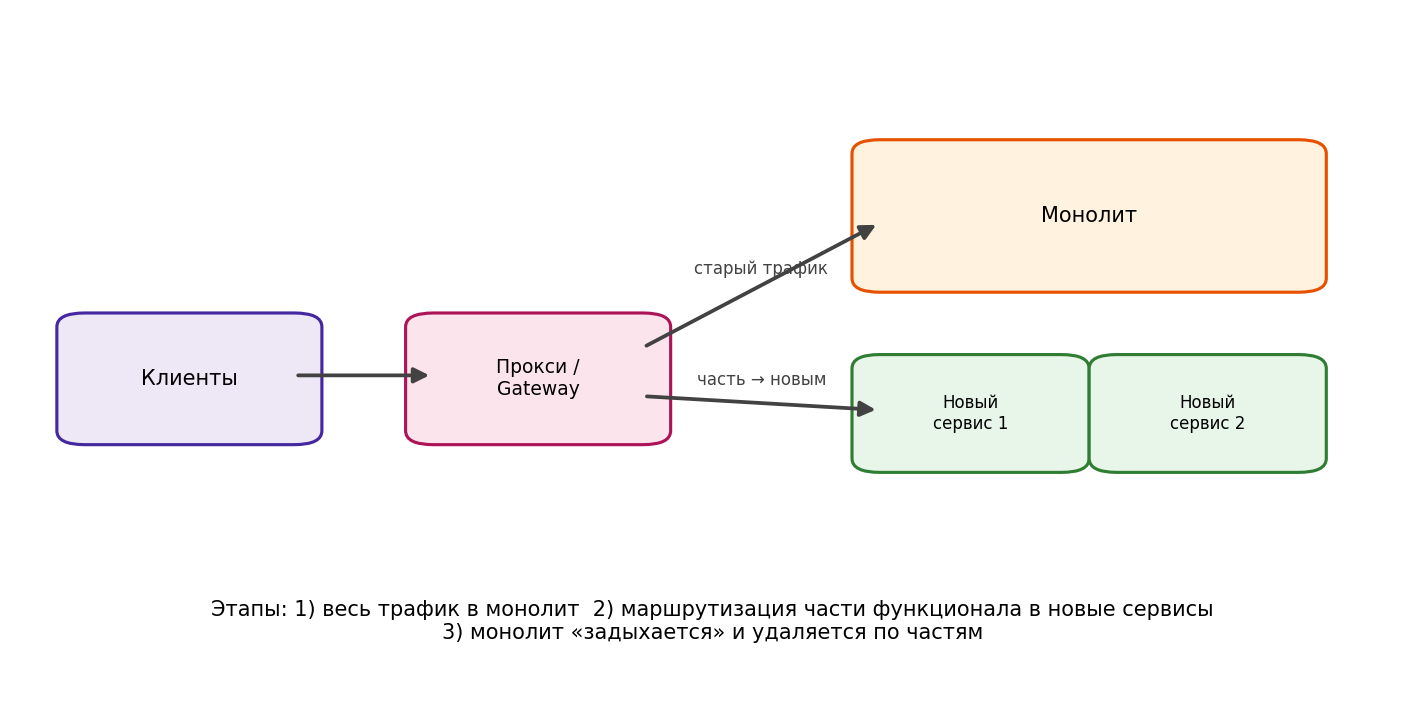
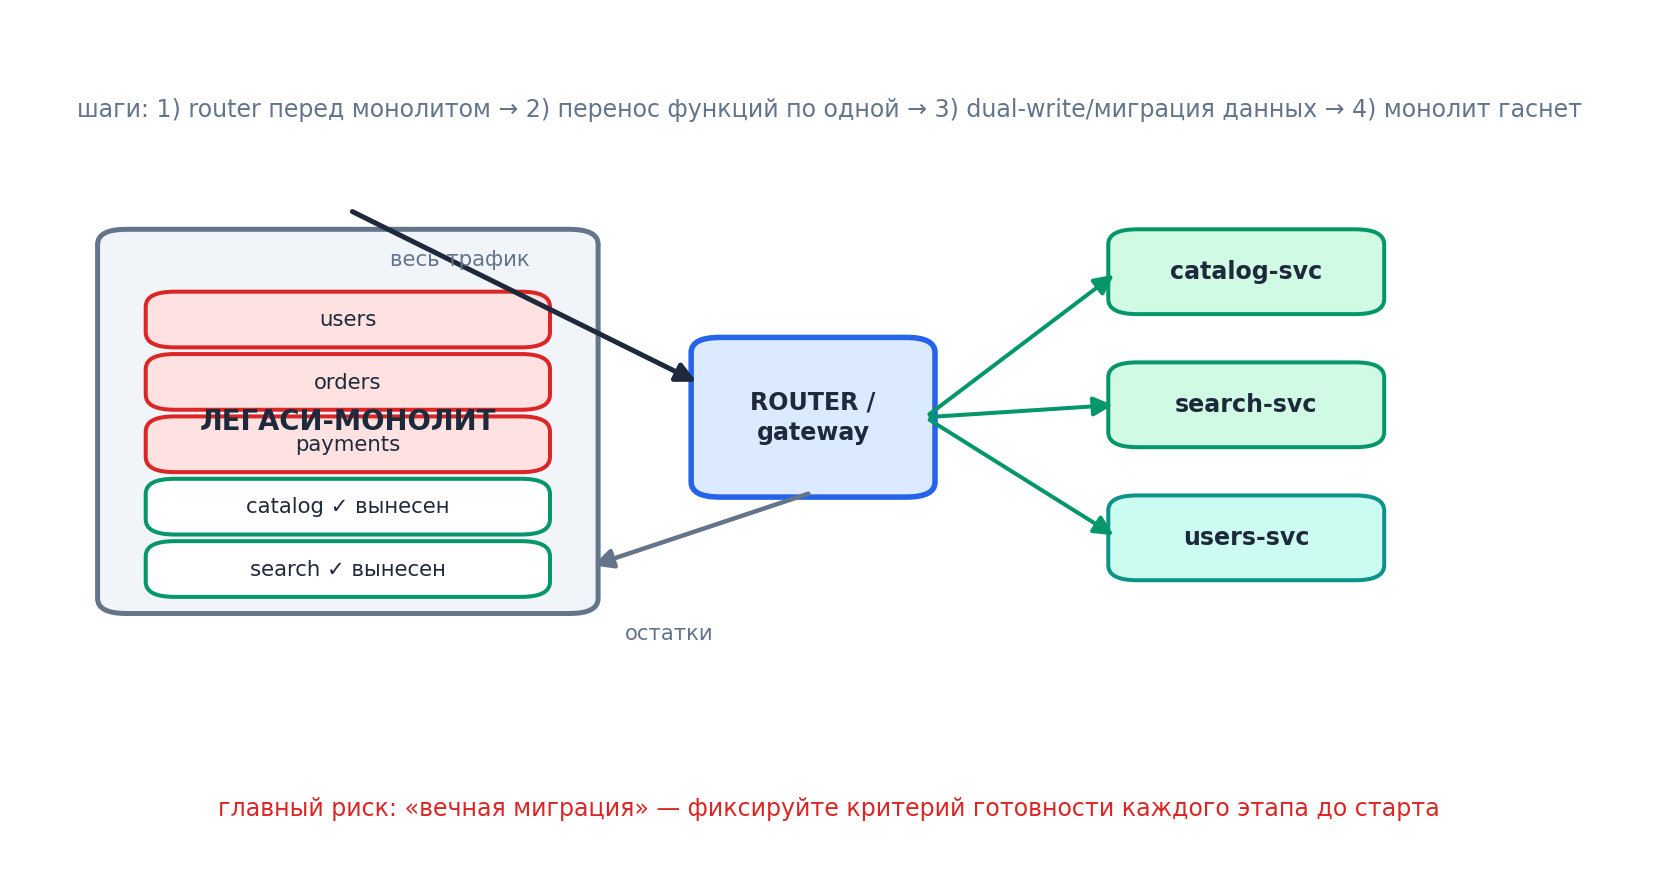
Redesign diagrams: modern flat palette, cleaner layout

diff --git a/diagrams2.py b/diagrams2.py
@@ -1,0 +1,371 @@
+import matplotlib
+matplotlib.use("Agg")
+import matplotlib.pyplot as plt
+from matplotlib.patches import FancyBboxPatch, FancyArrowPatch, Circle
+
+OUT = "/workspace/course/images"
+
+plt.rcParams["font.family"] = "DejaVu Sans"
+
+# ---- Modern flat palette ----
+BG      = "#ffffff"
+INK     = "#1e293b"   # main text
+MUTED   = "#64748b"   # secondary text
+LINE    = "#94a3b8"   # neutral arrows
+
+BLUE    = "#2563eb"; BLUE_F   = "#dbeafe"; BLUE_S   = "#bfdbfe"
+GREEN   = "#059669"; GREEN_F  = "#d1fae5"; GREEN_S  = "#a7f3d0"
+ORANGE  = "#ea580c"; ORANGE_F = "#ffedd5"; ORANGE_S = "#fed7aa"
+RED     = "#dc2626"; RED_F    = "#fee2e2"; RED_S    = "#fecaca"
+PURPLE  = "#7c3aed"; PURPLE_F = "#ede9fe"; PURPLE_S = "#ddd6fe"
+TEAL    = "#0d9488"; TEAL_F   = "#ccfbf1"; TEAL_S   = "#99f6e4"
+AMBER   = "#d97706"; AMBER_F  = "#fef3c7"; AMBER_S  = "#fde68a"
+GRAY_F  = "#f1f5f9"; GRAY_S   = "#e2e8f0"
+
+
+def box(ax, x, y, w, h, text="", fc="#dbeafe", ec="#2563eb", fs=10.5, lw=1.6,
+        bold=False, r=0.018, tc=None, va="center"):
+    p = FancyBboxPatch((x, y), w, h,
+                       boxstyle=f"round,pad=0.006,rounding_size={r}",
+                       fc=fc, ec=ec, lw=lw, mutation_scale=1)
+    ax.add_patch(p)
+    if text:
+        ax.text(x + w/2, y + h/2, text, ha="center", va=va, fontsize=fs,
+                color=tc or INK, weight="bold" if bold else "normal",
+                linespacing=1.35)
+    return p
+
+
+def cyl(ax, cx, cy, w, h, label="", fc=GREEN_F, ec=GREEN, fs=9):
+    """Small database cylinder."""
+    from matplotlib.patches import Ellipse
+    e1 = Ellipse((cx, cy + h/2), w, w*0.32, fc=fc, ec=ec, lw=1.6)
+    e2 = Ellipse((cx, cy - h/2), w, w*0.32, fc=fc, ec=ec, lw=1.6)
+    rect = plt.Rectangle((cx - w/2, cy - h/2), w, h, fc=fc, ec="none")
+    ax.add_patch(rect); ax.add_patch(e2); ax.add_patch(e1)
+    ax.plot([cx - w/2, cx - w/2], [cy - h/2, cy + h/2], color=ec, lw=1.6)
+    ax.plot([cx + w/2, cx + w/2], [cy - h/2, cy + h/2], color=ec, lw=1.6)
+    if label:
+        ax.text(cx, cy - h/2 - 0.035, label, ha="center", va="top",
+                fontsize=fs, color=MUTED)
+
+
+def arrow(ax, x1, y1, x2, y2, color=LINE, style="-|>", ls="-", lw=1.8, ms=16):
+    a = FancyArrowPatch((x1, y1), (x2, y2), arrowstyle=style,
+                        mutation_scale=ms, color=color, lw=lw, linestyle=ls,
+                        shrinkA=2, shrinkB=2)
+    ax.add_patch(a)
+    return a
+
+
+def lbl(ax, x, y, text, fs=9, color=MUTED, ha="center", style="normal", weight="normal"):
+    ax.text(x, y, text, fontsize=fs, color=color, ha=ha, va="center",
+            style=style, weight=weight)
+
+
+def title(ax, x, y, text, fs=13, color=INK):
+    ax.text(x, y, text, fontsize=fs, color=color, ha="center", va="center",
+            weight="bold")
+
+
+def new_ax(figsize=(11, 6)):
+    fig, ax = plt.subplots(figsize=figsize)
+    ax.set_xlim(0, 1); ax.set_ylim(0, 1)
+    ax.axis("off")
+    fig.patch.set_facecolor(BG)
+    return fig, ax
+
+
+def save(fig, name):
+    fig.savefig(f"{OUT}/{name}", dpi=180, bbox_inches="tight",
+                facecolor=BG, pad_inches=0.15)
+    plt.close(fig)
+
+
+# ============================================================
+# 1. Monolith vs Microservices
+# ============================================================
+fig, ax = new_ax((12, 6.2))
+
+# Left: monolith
+title(ax, 0.24, 0.94, "МОНОЛИТ", 14)
+box(ax, 0.06, 0.16, 0.36, 0.72, "", fc="#fffbeb", ec=AMBER, lw=2)
+mods = [("Presentation / UI", 0.70), ("Business logic", 0.535), ("Data access (ORM)", 0.37)]
+for t, y in mods:
+    box(ax, 0.10, y, 0.28, 0.115, t, fc=AMBER_F, ec=AMBER, fs=10)
+cyl(ax, 0.24, 0.245, 0.16, 0.06, "единая БД", fc=RED_F, ec=RED, fs=9)
+lbl(ax, 0.24, 0.075, "один деплой • один сбой роняет всё\nкоманда из 50 человек в одном коде", 9.5)
+
+# Right: microservices
+title(ax, 0.72, 0.94, "МИКРОСЕРВИСЫ", 14)
+svcs = [("users", BLUE, BLUE_F), ("orders", GREEN, GREEN_F),
+        ("payments", PURPLE, PURPLE_F), ("catalog", ORANGE, ORANGE_F)]
+pos = [(0.52, 0.62), (0.70, 0.62), (0.52, 0.34), (0.70, 0.34)]
+for (name, ec, fc), (x, y) in zip(svcs, pos):
+    box(ax, x, y, 0.145, 0.16, name, fc=fc, ec=ec, fs=11, bold=True)
+    cyl(ax, x + 0.0725, y - 0.055, 0.09, 0.035, "своя БД", fc=GRAY_F, ec=MUTED, fs=8)
+    arrow(ax, x + 0.0725, y, x + 0.0725, y - 0.032, color=ec, lw=1.4)
+# client on top
+box(ax, 0.585, 0.86, 0.215, 0.075, "клиент", fc=GRAY_F, ec=MUTED, fs=10)
+for x, y in pos:
+    arrow(ax, 0.6925, 0.86, x + 0.0725, y + 0.16, color=LINE, lw=1.2, ls=(0,(3,2)))
+lbl(ax, 0.72, 0.075, "независимые деплои • изоляция сбоев\nмаленькие команды вокруг сервисов", 9.5)
+
+arrow(ax, 0.445, 0.52, 0.485, 0.52, color=INK, lw=2.5, ms=22)
+save(fig, "01_monolith_vs_microservices.png")
+
+# ============================================================
+# 2. Sync vs Async communication
+# ============================================================
+fig, ax = new_ax((12, 6))
+
+title(ax, 0.25, 0.93, "СИНХРОННЫЙ REST/gRPC", 12)
+box(ax, 0.06, 0.60, 0.13, 0.11, "Order", fc=GREEN_F, ec=GREEN, bold=True)
+box(ax, 0.24, 0.60, 0.13, 0.11, "Payment", fc=PURPLE_F, ec=PURPLE, bold=True)
+box(ax, 0.06, 0.34, 0.13, 0.11, "Inventory", fc=BLUE_F, ec=BLUE, bold=True)
+arrow(ax, 0.19, 0.675, 0.24, 0.675, color=INK)
+lbl(ax, 0.215, 0.72, "POST /pay", 8.5)
+arrow(ax, 0.125, 0.60, 0.125, 0.45, color=INK)
+lbl(ax, 0.155, 0.53, "GET stock", 8.5, ha="left")
+lbl(ax, 0.185, 0.20, "отвечает только когда все ответы получены\nзадержка = сумма задержек цепочки", 9)
+
+title(ax, 0.74, 0.93, "АСИНХРОННЫЙ БРОКЕР СООБЩЕНИЙ", 12)
+box(ax, 0.52, 0.62, 0.12, 0.11, "Order\n(producer)", fc=GREEN_F, ec=GREEN, fs=9, bold=True)
+box(ax, 0.68, 0.55, 0.17, 0.25, "брокер\n(Kafka / RabbitMQ)", fc=AMBER_F, ec=AMBER, fs=9.5, bold=True)
+box(ax, 0.90, 0.70, 0.085, 0.09, "Payment", fc=PURPLE_F, ec=PURPLE, fs=8)
+box(ax, 0.90, 0.57, 0.085, 0.09, "Shipping", fc=BLUE_F, ec=BLUE, fs=8)
+box(ax, 0.90, 0.44, 0.085, 0.09, "Email", fc=ORANGE_F, ec=ORANGE, fs=8)
+arrow(ax, 0.64, 0.675, 0.68, 0.675, color=INK)
+lbl(ax, 0.66, 0.715, "event:", 8); lbl(ax, 0.66, 0.645, "order.created", 7.5, color=GREEN)
+for yy in (0.745, 0.615, 0.485):
+    arrow(ax, 0.85, 0.675 if yy==0.745 else (0.675 if yy==0.615 else 0.675), 0.90, yy, color=LINE, lw=1.3)
+lbl(ax, 0.735, 0.20, "producer не ждёт consumers\nкаждый подписчик читает сам, темп свой", 9)
+
+# latency comparison bars
+ax.text(0.06, 0.155, "СРАВНЕНИЕ ЗАДЕРЖКИ", fontsize=9.5, color=MUTED, weight="bold", ha="left")
+# sync: sequential chain of colored segments
+xb = 0.06
+for lab, d, c in [("order", 0.05, GREEN), ("payment", 0.13, PURPLE), ("stock", 0.08, BLUE)]:
+    ax.add_patch(FancyBboxPatch((xb, 0.10), d, 0.028, boxstyle="round,pad=0.002",
+                                fc=c, ec=c, alpha=0.9))
+    xb += d + 0.004
+lbl(ax, 0.36, 0.114, "= 320 мс до ответа клиенту", 8.5, color=INK, ha="left")
+# async: short publish + parallel background
+ax.add_patch(FancyBboxPatch((0.06, 0.045), 0.03, 0.028, boxstyle="round,pad=0.002",
+                            fc=GREEN, ec=GREEN, alpha=0.9))
+for i, (d, c) in enumerate([(0.10, PURPLE), (0.07, BLUE)]):
+    ax.add_patch(FancyBboxPatch((0.098, 0.055 - i*0.012), d, 0.009,
+                                boxstyle="round,pad=0.001", fc=c, ec=c, alpha=0.75))
+lbl(ax, 0.215, 0.058, "= 60 мс до ответа, остальное — в фоне", 8.5, color=INK, ha="left")
+save(fig, "02_sync_async_communication.png")
+
+# ============================================================
+# 3. API Gateway
+# ============================================================
+fig, ax = new_ax((11, 6.5))
+box(ax, 0.05, 0.78, 0.13, 0.09, "Web", fc=GRAY_F, ec=MUTED, bold=True)
+box(ax, 0.05, 0.66, 0.13, 0.09, "Mobile", fc=GRAY_F, ec=MUTED, bold=True)
+box(ax, 0.05, 0.54, 0.13, 0.09, "Партнёры", fc=GRAY_F, ec=MUTED, bold=True)
+
+gw_x, gw_y, gw_w, gw_h = 0.30, 0.40, 0.26, 0.48
+box(ax, gw_x, gw_y, gw_w, gw_h, "", fc=BLUE_F, ec=BLUE, lw=2.2)
+title(ax, gw_x + gw_w/2, 0.855, "API GATEWAY", 12, BLUE)
+steps = ["аутентификация (JWT)", "rate limiting", "роутинг /path → сервис", "ретраи, таймауты", "логирование запросов"]
+for i, s in enumerate(steps):
+    box(ax, gw_x+0.025, 0.755 - i*0.075, gw_w-0.05, 0.055, s, fc="white", ec=BLUE, fs=9)
+
+for yy in (0.825, 0.705, 0.585):
+    arrow(ax, 0.18, yy, gw_x, (yy+0.62)/2 if yy!=0.585 else 0.52, color=LINE, lw=1.5)
+
+backends = [("users", GREEN, GREEN_F, 0.78), ("orders", PURPLE, PURPLE_F, 0.62),
+            ("payments", ORANGE, ORANGE_S, 0.46), ("catalog", TEAL, TEAL_F, 0.30)]
+for name, ec, fc, y in backends:
+    box(ax, 0.72, y, 0.16, 0.09, name, fc=fc, ec=ec, bold=True)
+    arrow(ax, gw_x+gw_w, 0.64, 0.72, y+0.045, color=ec, lw=1.6)
+
+box(ax, 0.72, 0.10, 0.16, 0.09, "лицензионный /\nвнутренний API", fc=GRAY_F, ec=MUTED, fs=8.5)
+lbl(ax, 0.43, 0.16, "single entry point:\nклиенты не знают топологию внутри", 9.5, ha="left")
+lbl(ax, 0.30, 0.05, "минус: gateway может стать «умным» монолитом — держите в нём только сетевые функции", 9, color=RED)
+save(fig, "03_api_gateway.png")
+
+# ============================================================
+# 4. Service Discovery
+# ============================================================
+fig, ax = new_ax((11, 6.2))
+box(ax, 0.38, 0.74, 0.24, 0.14, "", fc=PURPLE_F, ec=PURPLE, lw=2)
+title(ax, 0.50, 0.845, "РЕЕСТР (registry)", 11, PURPLE)
+reg = ["users-svc → 10.0.1.4:8080", "users-svc → 10.0.2.9:8080", "orders-svc → 10.0.3.2:8080"]
+for i, r in enumerate(reg):
+    lbl(ax, 0.50, 0.80 - i*0.028, r, 8.5, color=INK)
+
+svc_data = [("users A", 0.06, 0.45, GREEN), ("users B", 0.06, 0.28, GREEN),
+            ("orders C", 0.86, 0.45, BLUE), ("caller", 0.44, 0.10, ORANGE)]
+for name, x, y, c in svc_data:
+    box(ax, x, y, 0.12, 0.09, name, fc="white", ec=c, lw=2, bold=True)
+    arrow(ax, x+0.06, y+0.09, 0.50 if x < 0.3 else (0.44 if x>0.5 else 0.50), 0.74,
+          color=c, ls=(0,(4,2)), lw=1.3)
+lbl(ax, 0.10, 0.56, "heartbeat каждые 5 с", 8.5, color=MUTED)
+lbl(ax, 0.90, 0.56, "registration", 8.5, color=MUTED)
+
+arrow(ax, 0.56, 0.145, 0.86, 0.25, color=ORANGE, lw=2)
+lbl(ax, 0.74, 0.22, "lookup + балансировка", 9, color=ORANGE)
+arrow(ax, 0.44, 0.145, 0.18, 0.30, color=INK, lw=2)
+lbl(ax, 0.24, 0.20, "прямой вызов 10.0.1.4:8080", 9)
+
+lbl(ax, 0.50, 0.02, "вышел users B → heartbeat пропал → реестр исключил инстанс → новые запросы идут только на A", 9, color=RED)
+save(fig, "04_service_discovery.png")
+
+# ============================================================
+# 5. Saga orchestration
+# ============================================================
+fig, ax = new_ax((12, 6.2))
+box(ax, 0.38, 0.78, 0.24, 0.12, "SAGA ORCHESTRATOR", fc=AMBER_F, ec=AMBER, bold=True, fs=11)
+steps = [("1. create order", GREEN, 0.05), ("2. reserve stock", BLUE, 0.27),
+         ("3. charge card", PURPLE, 0.49), ("4. ship", ORANGE, 0.71)]
+for name, c, x in steps:
+    box(ax, x, 0.45, 0.19, 0.10, name.split(". ",1)[1], fc="white", ec=c, lw=2, bold=True, fs=10)
+    lbl(ax, x+0.095, 0.575, name.split(".")[0], 9, color=c, weight="bold")
+    arrow(ax, x+0.095, 0.78, x+0.095, 0.55, color=AMBER, lw=1.4)
+    arrow(ax, x+0.095, 0.45, x+0.095, 0.38, color=c, lw=1.4, style="-|>")
+    lbl(ax, x+0.095, 0.345, "ok", 8.5, color=GREEN)
+
+# failure path
+box(ax, 0.49, 0.17, 0.19, 0.09, "ОТКАЗ оплаты", fc=RED_F, ec=RED, bold=True, fs=9.5)
+arrow(ax, 0.585, 0.38, 0.585, 0.26, color=RED, lw=2)
+comp = [("C1: отменить заказ", 0.05), ("C2: вернуть stock", 0.27)]
+for name, x in comp:
+    box(ax, x, 0.17, 0.19, 0.09, name, fc=GRAY_F, ec=RED, fs=8.5)
+    arrow(ax, 0.49, 0.215, x+0.19, 0.215, color=RED, ls=(0,(3,2)), lw=1.3)
+lbl(ax, 0.60, 0.09, "компенсации выполняются в обратном порядке;\nитоговое состояние согласовано eventual consistency", 9, color=MUTED)
+save(fig, "05_saga_orchestration.png")
+
+# ============================================================
+# 6. Circuit breaker states
+# ============================================================
+fig, ax = new_ax((10.5, 6))
+nodes = {"CLOSED": (0.14, 0.55, GREEN, GREEN_F),
+         "OPEN":   (0.55, 0.82, RED, RED_F),
+         "HALF-\nOPEN": (0.55, 0.30, AMBER, AMBER_F)}
+for name, (x, y, c, fc) in nodes.items():
+    box(ax, x, y, 0.20, 0.14, name, fc=fc, ec=c, lw=2.5, bold=True, fs=11)
+
+arrow(ax, 0.34, 0.66, 0.55, 0.84, color=RED, lw=2)
+lbl(ax, 0.40, 0.79, "fail% > порога", 8.5, color=RED)
+arrow(ax, 0.65, 0.82, 0.65, 0.44, color=AMBER, lw=2)
+lbl(ax, 0.70, 0.63, "таймер истёк", 8.5, color=AMBER, ha="left")
+arrow(ax, 0.55, 0.34, 0.24, 0.55, color=GREEN, lw=2)
+lbl(ax, 0.33, 0.40, "тест прошёл", 8.5, color=GREEN)
+arrow(ax, 0.65, 0.30, 0.65, 0.18, color=RED, lw=1.6)
+lbl(ax, 0.70, 0.15, "тест упал → снова OPEN", 8.5, color=RED, ha="left")
+
+box(ax, 0.83, 0.55, 0.15, 0.14, "fallback:\nкэш /\nнейтральное\nзначение", fc=GRAY_F, ec=MUTED, fs=8.5)
+arrow(ax, 0.75, 0.86, 0.90, 0.69, color=MUTED, lw=1.5)
+lbl(ax, 0.85, 0.80, "пока OPEN", 8.5)
+
+lbl(ax, 0.5, 0.04, "CLOSED — идёт трафик и сбор статистики • OPEN — вызовы блокируются мгновенно,\n downstream отдыхает • HALF-OPEN — пропускаем несколько тестовых запросов", 9, color=MUTED)
+save(fig, "06_circuit_breaker.png")
+
+# ============================================================
+# 7. Event-driven with outbox
+# ============================================================
+fig, ax = new_ax((12, 6.2))
+box(ax, 0.05, 0.55, 0.22, 0.30, "", fc=GREEN_F, ec=GREEN, lw=2)
+title(ax, 0.16, 0.82, "orders-service", 10.5, GREEN)
+box(ax, 0.07, 0.60, 0.085, 0.12, "таблица\norders", fc="white", ec=GREEN, fs=8.5)
+box(ax, 0.17, 0.60, 0.085, 0.12, "outbox\ntable", fc=AMBER_F, ec=AMBER, fs=8.5)
+lbl(ax, 0.16, 0.50, "один local ACID-транзакт", 8.5)
+
+box(ax, 0.34, 0.60, 0.13, 0.11, "relay /\ndebezium", fc=GRAY_F, ec=MUTED, fs=8.5)
+arrow(ax, 0.27, 0.655, 0.34, 0.655, color=AMBER, lw=2)
+
+box(ax, 0.53, 0.55, 0.20, 0.22, "Kafka topic\norder-events", fc=PURPLE_F, ec=PURPLE, lw=2, bold=True, fs=10)
+arrow(ax, 0.47, 0.655, 0.53, 0.655, color=INK, lw=2)
+
+subs = [("payments", 0.78, BLUE), ("shipping", 0.62, TEAL), ("analytics", 0.46, ORANGE)]
+for name, y, c in subs:
+    box(ax, 0.80, y, 0.15, 0.09, name, fc="white", ec=c, lw=2, bold=True, fs=9.5)
+    arrow(ax, 0.73, 0.66, 0.80, y+0.045, color=c, lw=1.6)
+lbl(ax, 0.875, 0.40, "consumer groups", 8.5)
+
+box(ax, 0.53, 0.18, 0.20, 0.12, "DLQ\norder-events.dead", fc=RED_F, ec=RED, fs=8.5)
+arrow(ax, 0.875, 0.62, 0.73, 0.26, color=RED, ls=(0,(3,2)), lw=1.4)
+lbl(ax, 0.84, 0.33, "после N ретраев", 8.5, color=RED)
+
+lbl(ax, 0.16, 0.06, "почему outbox: запись в БД и в брокер — разные системы,\nбез outbox событие может «потеряться» при падении между commit и publish", 9, color=MUTED)
+save(fig, "07_event_driven.png")
+
+# ============================================================
+# 8. Strangler Fig migration
+# ============================================================
+fig, ax = new_ax((11.5, 6))
+box(ax, 0.05, 0.30, 0.30, 0.45, "ЛЕГАСИ-МОНОЛИТ", fc=GRAY_F, ec=MUTED, lw=2, bold=True, fs=11)
+inner = ["users", "orders", "payments", "catalog", "search"]
+for i, m in enumerate(inner):
+    fade = i >= 3
+    box(ax, 0.08, 0.62 - i*0.075, 0.24, 0.055, m + (" ✓ вынесен" if fade else ""),
+        fc=RED_F if not fade else "white", ec=RED if not fade else GREEN, fs=8.5)
+
+box(ax, 0.42, 0.44, 0.14, 0.18, "ROUTER /\ngateway", fc=BLUE_F, ec=BLUE, lw=2.2, bold=True, fs=9.5)
+box(ax, 0.68, 0.66, 0.16, 0.09, "catalog-svc", fc=GREEN_F, ec=GREEN, bold=True, fs=9.5)
+box(ax, 0.68, 0.50, 0.16, 0.09, "search-svc", fc=GREEN_F, ec=GREEN, bold=True, fs=9.5)
+box(ax, 0.68, 0.34, 0.16, 0.09, "users-svc", fc=TEAL_F, ec=TEAL, bold=True, fs=9.5)
+
+arrow(ax, 0.20, 0.78, 0.42, 0.57, color=INK, lw=2)
+lbl(ax, 0.27, 0.72, "весь трафик", 8.5)
+arrow(ax, 0.49, 0.44, 0.35, 0.35, color=MUTED, lw=1.8)
+lbl(ax, 0.40, 0.27, "остатки", 8.5)
+for y in (0.705, 0.545, 0.385):
+    arrow(ax, 0.56, 0.53, 0.68, y, color=GREEN, lw=1.6)
+
+lbl(ax, 0.50, 0.90, "шаги: 1) router перед монолитом → 2) перенос функций по одной → 3) dual-write/миграция данных → 4) монолит гаснет", 9.5, color=MUTED)
+lbl(ax, 0.50, 0.06, "главный риск: «вечная миграция» — фиксируйте критерий готовности каждого этапа до старта", 9.5, color=RED)
+save(fig, "08_strangler_fig.png")
+
+# ============================================================
+# 9. Observability three pillars
+# ============================================================
+fig, ax = new_ax((12, 6))
+pillars = [
+    ("МЕТРИКИ", BLUE, BLUE_F, "числа во времени\nlatency P99, RPS, error rate\n→ Prometheus + Grafana"),
+    ("ТРЕЙСЫ", PURPLE, PURPLE_F, "путь одного запроса\nсквозь все сервисы\n→ OpenTelemetry + Jaeger"),
+    ("ЛОГИ", TEAL, TEAL_F, "события с context\ntrace_id в каждой строке\n→ Loki / ELK"),
+]
+for (t, c, fc, body), x in zip(pillars, (0.05, 0.38, 0.71)):
+    box(ax, x, 0.55, 0.24, 0.30, "", fc=fc, ec=c, lw=2)
+    title(ax, x+0.12, 0.80, t, 12, c)
+    lbl(ax, x+0.12, 0.655, body, 9)
+
+box(ax, 0.30, 0.18, 0.40, 0.16, "CORRELATION\ntrace_id склеивает три столпа:\nметрика аномальная → трейс нашёл сервис → лог дал причину",
+    fc=AMBER_F, ec=AMBER, fs=9, bold=False)
+for x in (0.17, 0.50, 0.83):
+    arrow(ax, x, 0.55, 0.50, 0.34, color=AMBER, lw=1.6)
+
+lbl(ax, 0.50, 0.05, "USE-методика для ресурсов (Utilization/Saturation/Errors) и RED для сервисов (Rate/Errors/Duration)", 9, color=MUTED)
+save(fig, "09_observability.png")
+
+# ============================================================
+# 10. Kubernetes deployment
+# ============================================================
+fig, ax = new_ax((12, 6.2))
+box(ax, 0.04, 0.42, 0.11, 0.10, "User", fc=GRAY_F, ec=MUTED, fs=9)
+box(ax, 0.20, 0.42, 0.12, 0.10, "Ingress", fc=BLUE_F, ec=BLUE, bold=True, fs=9.5)
+arrow(ax, 0.15, 0.47, 0.20, 0.47, color=INK)
+
+box(ax, 0.39, 0.20, 0.58, 0.65, "", fc="#f8fafc", ec=INK, lw=2)
+title(ax, 0.68, 0.81, "Kubernetes cluster", 11)
+svc_defs = [("Service users", 0.66, GREEN, GREEN_F), ("Service orders", 0.45, PURPLE, PURPLE_F)]
+for name, y, c, fc in svc_defs:
+    box(ax, 0.42, y, 0.14, 0.08, name, fc="white", ec=c, fs=8.5, bold=True)
+    for j in range(3):
+        px = 0.60 + j*0.115
+        box(ax, px, y-0.01, 0.09, 0.10, f"pod-{j+1}", fc=fc, ec=c, fs=8)
+        arrow(ax, 0.56, y+0.04, px, y+0.04, color=c, lw=1.2)
+arrow(ax, 0.32, 0.47, 0.42, 0.70, color=BLUE, lw=1.6)
+arrow(ax, 0.32, 0.47, 0.42, 0.49, color=PURPLE, lw=1.6)
+
+lbl(ax, 0.68, 0.27, "replicas + readiness/liveness probes\nrolling update: новый pod готов → старый получает SIGTERM", 9, color=MUTED)
+box(ax, 0.39, 0.04, 0.58, 0.09, "CI/CD: build image → push registry → ArgoCD синхронизирует манифесты (GitOps)",
+    fc=AMBER_F, ec=AMBER, fs=9)
+save(fig, "10_kubernetes.png")
+
+print("done")
